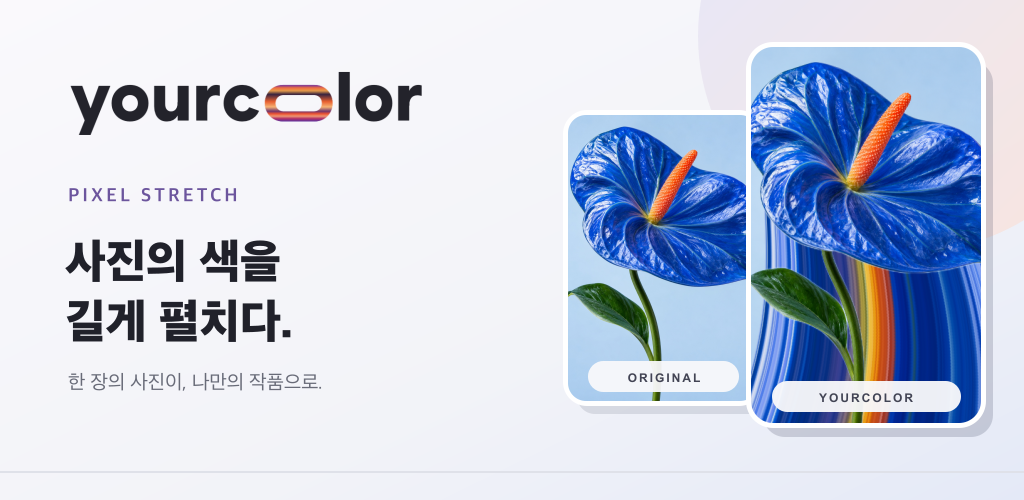
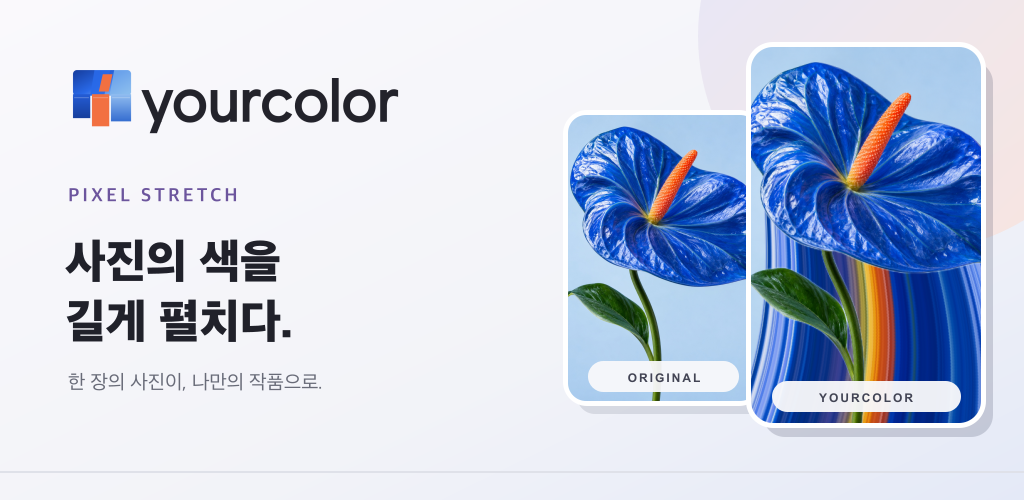
Replace oval branding with pixel stretch mark

Changed region(s): [[0.0625, 0.12, 0.4062, 0.27]]

diff --git a/docs/index.html b/docs/index.html
@@ -8,7 +8,7 @@
   <meta http-equiv="Content-Security-Policy" content="default-src 'none'; img-src 'self' data: blob:; font-src 'self'; style-src 'self' 'unsafe-inline'; script-src 'self' 'wasm-unsafe-eval'; worker-src 'self'; connect-src 'self'; base-uri 'self'; form-action 'none'">
   <title>yourcolor - 픽셀 스트레치 | 무료 사진 편집기</title>
   <link rel="canonical" href="https://ika9810.github.io/yourcolor/">
-  <link rel="icon" href="./favicon.svg" type="image/svg+xml">
+  <link rel="icon" href="./favicon.svg?v=3" type="image/svg+xml">
   <link rel="preload" href="./assets/Paperlogy-6SemiBold.woff2" as="font" type="font/woff2" crossorigin>
   <link rel="stylesheet" href="./assets/app.css">
   <meta property="og:type" content="website">
@@ -17,23 +17,23 @@
   <meta property="og:title" content="yourcolor - 픽셀 스트레치 | 사진의 색을 펼치는 편집기">
   <meta property="og:description" content="사진 한 장으로 시작해 방향·길이·모양을 직접 조절하세요. 브라우저에서 편집하고 JPG로 저장할 수 있습니다.">
   <meta property="og:url" content="https://ika9810.github.io/yourcolor/">
-  <meta property="og:image" content="https://ika9810.github.io/yourcolor/assets/og-image.png?v=2">
+  <meta property="og:image" content="https://ika9810.github.io/yourcolor/assets/og-image.png?v=3">
   <meta property="og:image:alt" content="yourcolor 픽셀 스트레치 사진 편집 앱 소개 이미지">
   <meta property="og:image:width" content="1024">
   <meta property="og:image:height" content="500">
   <meta name="twitter:card" content="summary_large_image">
-  <script type="application/ld+json">{"@context":"https://schema.org","@type":"WebApplication","name":"yourcolor - 픽셀 스트레치","alternateName":"yourcolor","url":"https://ika9810.github.io/yourcolor/","description":"사진의 실제 픽셀을 위, 아래, 왼쪽, 오른쪽으로 펼쳐 작품을 만드는 무료 웹 사진 편집기. 피사체 분리와 편집은 브라우저에서 실행됩니다.","applicationCategory":"MultimediaApplication","operatingSystem":"Web","inLanguage":"ko","isAccessibleForFree":true,"image":"https://ika9810.github.io/yourcolor/assets/og-image.png?v=2","offers":{"@type":"Offer","price":"0","priceCurrency":"KRW"}}</script>
+  <script type="application/ld+json">{"@context":"https://schema.org","@type":"WebApplication","name":"yourcolor - 픽셀 스트레치","alternateName":"yourcolor","url":"https://ika9810.github.io/yourcolor/","description":"사진의 실제 픽셀을 위, 아래, 왼쪽, 오른쪽으로 펼쳐 작품을 만드는 무료 웹 사진 편집기. 피사체 분리와 편집은 브라우저에서 실행됩니다.","applicationCategory":"MultimediaApplication","operatingSystem":"Web","inLanguage":"ko","isAccessibleForFree":true,"image":"https://ika9810.github.io/yourcolor/assets/og-image.png?v=3","offers":{"@type":"Offer","price":"0","priceCurrency":"KRW"}}</script>
 </head>
 <body>
 <a class="skip-link" href="#editor">편집기로 건너뛰기</a>
 <svg class="symbols" aria-hidden="true"><defs>
 <symbol id="arrow" viewBox="0 0 24 24"><path d="M5 12h14m-6-6 6 6-6 6"/></symbol><symbol id="back" viewBox="0 0 24 24"><path d="m14 6-6 6 6 6"/></symbol><symbol id="plus" viewBox="0 0 24 24"><path d="M12 5v14M5 12h14"/></symbol><symbol id="undo-icon" viewBox="0 0 24 24"><path d="m8 5-5 5 5 5M3 10h11a6 6 0 0 1 0 12" transform="translate(1 -2)"/></symbol><symbol id="redo-icon" viewBox="0 0 24 24"><path d="m16 5 5 5-5 5m5-5H10a6 6 0 0 0 0 12" transform="translate(-1 -2)"/></symbol><symbol id="eye" viewBox="0 0 24 24"><path d="M2 12s4-7 10-7 10 7 10 7-4 7-10 7S2 12 2 12Z"/><circle cx="12" cy="12" r="3"/></symbol><symbol id="close" viewBox="0 0 24 24"><path d="m6 6 12 12M6 18 18 6"/></symbol><symbol id="photo-icon" viewBox="0 0 24 24"><rect x="3" y="3" width="18" height="18" rx="5"/><path d="m3 16 5-5 6 6 4-4 3 3"/><circle cx="16" cy="8" r="2"/></symbol><symbol id="stretch-icon" viewBox="0 0 24 24"><path d="M12 3v18m-4-4 4 4 4-4M8 7l4-4 4 4M4 10v4m16-4v4"/></symbol><symbol id="shape-icon" viewBox="0 0 24 24"><path d="M4 19c12 0 3-14 16-14M4 14c8 0 5-11 16-11M4 21c16 0 4-13 16-13"/></symbol><symbol id="subject-icon" viewBox="0 0 24 24"><circle cx="12" cy="8" r="3"/><path d="M7 19v-3a5 5 0 0 1 10 0v3M3 7V3h4m10 0h4v4M3 17v4h4m10 0h4v-4"/></symbol><symbol id="background-icon" viewBox="0 0 24 24"><rect x="3" y="3" width="18" height="18" rx="5"/><path d="m5 19 14-14M3 12l9-9m0 18 9-9"/></symbol><symbol id="download-icon" viewBox="0 0 24 24"><path d="M12 3v12m-4-4 4 4 4-4M5 16v5h14v-5"/></symbol><symbol id="check" viewBox="0 0 24 24"><path d="m5 12 4 4L19 6"/></symbol><symbol id="lock" viewBox="0 0 24 24"><rect x="6" y="10" width="12" height="11" rx="3"/><path d="M8 10V7a4 4 0 0 1 8 0v3"/></symbol>
 </defs></svg>
-<header class="site-header"><a class="brand" href="./" aria-label="yourcolor 홈"><img src="./assets/wordmark.png" width="755" height="160" alt=""></a><nav aria-label="주요 메뉴"><a href="#how-it-works">사용법</a><a href="#faq">자주 묻는 질문</a><a href="https://github.com/ika9810/yourcolor" target="_blank" rel="noopener noreferrer">GitHub ↗</a></nav></header>
+<header class="site-header"><a class="brand" href="./" aria-label="yourcolor 홈"><img src="./assets/wordmark.png?v=3" width="945" height="190" alt=""></a><nav aria-label="주요 메뉴"><a href="#how-it-works">사용법</a><a href="#faq">자주 묻는 질문</a><a href="https://github.com/ika9810/yourcolor" target="_blank" rel="noopener noreferrer">GitHub ↗</a></nav></header>
 <div class="site-layout">
 <section class="site-hero" aria-labelledby="site-title"><p class="eyebrow product-name">yourcolor - 픽셀 스트레치</p><h1 id="site-title">너의 순간을,<br><em>조금 더 길게.</em></h1><p class="hero-description">사진 속 색을 펼쳐 만드는 나만의 픽셀 스트레치. 사진을 고르고, 피사체를 남긴 채 색의 방향과 길이를 직접 조절해 보세요.</p><div class="hero-actions"><button class="hero-cta" data-jump="pick">내 사진으로 시작하기 <span aria-hidden="true">↗</span></button><a href="https://play.google.com/store/apps/details?id=com.robotics.yourcolor" target="_blank" rel="noopener noreferrer">Google Play에서 받기 ↗</a></div><p class="hero-note">무료 · 계정 없음 · 사진은 브라우저에서 처리</p></section>
 <main class="flow-board" id="editor" data-mode="live" aria-label="yourcolor 사진 편집기">
-<article class="flow-item" data-step="home"><div class="screen-label"><span>01</span><h2>시작</h2></div><section class="screen home-screen" aria-label="시작 화면"><header class="app-header"><canvas class="logo" width="840" height="160" aria-label="yourcolor 픽셀 스트레치 로고"></canvas></header><div class="home-content"><div class="photo-stack" aria-label="픽셀 스트레치로 만든 세 가지 작품"><button class="stack-card stack-left" data-demo="flower" aria-label="꽃 작품 편집해보기"><canvas data-preview="flower" width="420" height="525"></canvas></button><button class="stack-card stack-right" data-demo="car" aria-label="자동차 작품 편집해보기"><canvas data-preview="car" width="420" height="525"></canvas></button><button class="stack-card stack-front" data-demo="portrait" aria-label="인물 작품 편집해보기"><canvas data-preview="portrait" width="420" height="525"></canvas></button></div><div class="home-copy"><h2>너의 순간을,<br>조금 더 길게.</h2><p>사진 속 색을 펼쳐 만드는<br>나만의 픽셀 스트레치.</p></div><button class="primary-button" data-jump="pick">사진으로 시작하기 <svg><use href="#arrow"/></svg></button></div></section></article>
+<article class="flow-item" data-step="home"><div class="screen-label"><span>01</span><h2>시작</h2></div><section class="screen home-screen" aria-label="시작 화면"><header class="app-header"><img class="logo" src="./assets/wordmark.png?v=3" width="945" height="190" alt="yourcolor 로고"></header><div class="home-content"><div class="photo-stack" aria-label="픽셀 스트레치로 만든 세 가지 작품"><button class="stack-card stack-left" data-demo="flower" aria-label="꽃 작품 편집해보기"><canvas data-preview="flower" width="420" height="525"></canvas></button><button class="stack-card stack-right" data-demo="car" aria-label="자동차 작품 편집해보기"><canvas data-preview="car" width="420" height="525"></canvas></button><button class="stack-card stack-front" data-demo="portrait" aria-label="인물 작품 편집해보기"><canvas data-preview="portrait" width="420" height="525"></canvas></button></div><div class="home-copy"><h2>너의 순간을,<br>조금 더 길게.</h2><p>사진 속 색을 펼쳐 만드는<br>나만의 픽셀 스트레치.</p></div><button class="primary-button" data-jump="pick">사진으로 시작하기 <svg><use href="#arrow"/></svg></button></div></section></article>
 <article class="flow-item" data-step="pick"><div class="screen-label"><span>02</span><h2>사진 선택</h2></div><section class="screen picker-screen" aria-label="사진 선택 화면"><header class="app-header"><button class="circle-button" data-jump="home" aria-label="시작 화면으로"><svg><use href="#back"/></svg></button><span class="nav-title">새로운 작품</span><span class="header-spacer"></span></header><div class="picker-content"><h2>어떤 사진으로<br>시작할까요?</h2><p class="supporting">마음에 드는 한 장이면 충분해요.</p><p id="loading-status" class="loading-status" role="status">샘플 사진을 준비하고 있어요…</p><button id="import-photo" class="import-card"><span class="import-icon"><svg><use href="#plus"/></svg></span><span><strong>내 사진 선택</strong><small>사진 보관함에서 가져오기</small></span><svg><use href="#arrow"/></svg></button><div class="sample-heading"><h3>샘플로 먼저 해보기</h3><span>3개의 사진</span></div><div id="photo-list" class="photo-list"><button data-project="car" class="sample-card sample-wide" aria-label="자동차 사진 선택"><div class="sample-art"><img id="photo-car" alt="빛이 반사되는 실버 스포츠카"></div><span>미드나잇 드라이브 <svg><use href="#arrow"/></svg></span></button><button data-project="portrait" class="sample-card" aria-label="인물 사진 선택"><div class="sample-art"><img id="photo-portrait" alt="크롬 재킷을 입은 인물"></div><span>크롬 뮤즈</span></button><button data-project="flower" class="sample-card flower-card" aria-label="꽃 사진 선택"><div class="sample-art"><img id="photo-flower" alt="코발트 블루 안스리움"></div><span>일렉트릭 블룸</span></button></div><p class="picker-note">사진을 고른 뒤, 원하는 방향으로 늘려보세요.<br>사진은 4:5로 채워져요. 가장자리가 일부 잘릴 수 있어요.<br>사진은 브라우저 안에서만 처리돼요. JPG·PNG·WebP, 최대 30MB.</p></div></section></article>
 <article class="flow-item" data-step="edit"><div class="screen-label"><span>03</span><h2>편집</h2></div><section class="screen editor-screen" aria-label="편집 화면"><header class="app-header"><button class="circle-button" data-jump="pick" aria-label="사진 선택으로"><svg><use href="#back"/></svg></button><span class="nav-title">만들기</span><button id="save-open" class="small-primary">저장</button></header><div class="art-area"><div class="stage" id="stage"><canvas id="art" width="768" height="960" aria-label="픽셀 스트레치 편집 결과"></canvas><div id="touch-surface" role="slider" tabindex="0" aria-label="사진을 위로 끌어 스트레치 길이 조절" aria-valuemin="0" aria-valuemax="100" aria-valuenow="86"><svg id="source-guide" viewBox="0 0 960 1200" aria-hidden="true"></svg></div><button id="compare" class="compare-button" aria-label="원본 비교" aria-pressed="false"><svg><use href="#eye"/></svg></button><button id="model-status" class="model-status" aria-label="피사체 상태 확인 및 보정">피사체 찾는 중…</button></div><div class="under-art"><span id="drag-hint">화살표를 당겨 늘려보세요.</span><div class="history"><button id="undo" aria-label="실행 취소" disabled><svg><use href="#undo-icon"/></svg></button><button id="redo" aria-label="다시 실행" disabled><svg><use href="#redo-icon"/></svg></button></div></div></div><div class="editor-tools"><div class="tool-panel" id="panel-stretch" role="tabpanel" aria-label="늘리기 조절"><div class="panel-heading"><strong>늘리는 방향</strong><button id="pick-color" aria-pressed="false">시작선 바꾸기</button></div><div class="direction-buttons" role="group" aria-label="늘릴 방향"><button data-direction="up" aria-pressed="true" aria-label="위로 늘리기">↑<span>위</span></button><button data-direction="down" aria-pressed="false" aria-label="아래로 늘리기">↓<span>아래</span></button><button data-direction="left" aria-pressed="false" aria-label="왼쪽으로 늘리기">←<span>왼쪽</span></button><button data-direction="right" aria-pressed="false" aria-label="오른쪽으로 늘리기">→<span>오른쪽</span></button></div><div class="range-control"><label for="length">길이 <output id="length-value">86</output></label><input id="length" type="range" min="0" max="100" value="86"></div></div><div class="tool-panel" id="panel-shape" role="tabpanel" aria-label="모양 조절" hidden><div class="panel-heading"><strong>늘어나는 모양</strong><button id="reset" aria-label="효과 초기화">초기화</button></div><div class="effect-list"><button data-effect="straight" aria-pressed="true"><canvas id="thumb-straight" width="180" height="225"></canvas><span>직선</span></button><button data-effect="fan" aria-pressed="false"><canvas id="thumb-fan" width="180" height="225"></canvas><span>펼침</span></button><button data-effect="curve" aria-pressed="false"><canvas id="thumb-curve" width="180" height="225"></canvas><span>곡선</span></button></div><div class="range-control"><label for="amount"><span id="amount-label">끝부분 펼침</span><output id="amount-value">0</output></label><input id="amount" type="range" min="0" max="100" value="0"></div></div><div class="tool-panel" id="panel-background" role="tabpanel" aria-label="바탕 선택" hidden><div class="panel-heading"><strong>작품에 어울리는 바탕</strong></div><div class="backgrounds"><button data-background="ink" aria-pressed="true"><span class="swatch ink"></span>먹색</button><button data-background="paper" aria-pressed="false"><span class="swatch paper"></span>종이색</button><button data-background="photo" aria-pressed="false"><span class="swatch photo"><svg><use href="#photo-icon"/></svg></span>원본</button></div><p class="panel-note">피사체는 그대로, 분위기는 다르게.</p></div><nav class="tool-tabs" aria-label="편집 도구"><button data-tool="stretch" aria-pressed="true"><svg><use href="#stretch-icon"/></svg><span>늘리기</span></button><button data-tool="shape" aria-pressed="false"><svg><use href="#shape-icon"/></svg><span>모양</span></button><button data-tool="subject" aria-pressed="false"><svg><use href="#subject-icon"/></svg><span>피사체</span></button><button data-tool="background" aria-pressed="false"><svg><use href="#background-icon"/></svg><span>바탕</span></button></nav></div><span id="art-label" hidden></span><span id="art-number" hidden></span></section></article>
 <article class="flow-item" data-step="export"><div class="screen-label"><span>04</span><h2>저장</h2></div><section class="screen export-screen" id="save-dialog" aria-label="저장 미리보기 화면"><header class="app-header"><button class="circle-button" data-jump="edit" aria-label="편집 화면으로"><svg><use href="#back"/></svg></button><span class="nav-title">내 작품</span><button class="circle-button" data-jump="home" aria-label="시작 화면으로"><svg><use href="#close"/></svg></button></header><div class="export-content"><div class="export-art"><canvas id="save-canvas" width="1440" height="1800" aria-label="저장할 이미지"></canvas></div><h2>이 느낌, 그대로.</h2><p class="supporting">사진에서 시작된, 당신만의 한 장.</p><div class="save-spec"><span>JPG</span><i></i><span>1440 × 1800</span><i></i><span>워터마크 없음</span></div><button id="download" class="primary-button">이미지 저장 <svg><use href="#download-icon"/></svg></button><div class="download-alternatives"><a id="download-fallback" class="text-button" hidden>직접 다운로드 ↗</a><a id="download-open" class="text-button" hidden target="_blank" rel="noopener">이미지 열어 저장 ↗</a></div><button class="text-button" data-jump="edit">조금 더 다듬기</button></div></section></article>

diff --git a/docs/src/engine.js b/docs/src/engine.js
@@ -224,28 +224,6 @@ async function decodePhoto(file){
 $('download').onclick=()=>{const project=exportProject();if(!project)return;draw($('save-canvas'),project);$('save-canvas').toBlob(blob=>{if(!blob){toast('이미지를 만들지 못했어요');return}clearDownload();downloadUrl=URL.createObjectURL(blob);const filename=`yourcolor-${project.state.effect||'original'}-${Date.now()}.jpg`;const fallback=$('download-fallback'),open=$('download-open');fallback.href=downloadUrl;fallback.download=filename;fallback.hidden=false;open.href=downloadUrl;open.hidden=false;const a=document.createElement('a');a.href=downloadUrl;a.download=filename;document.body.append(a);a.click();a.remove();toast('JPG를 준비했어요. 저장되지 않았다면 아래 링크를 사용해 주세요')},'image/jpeg',.95)};
 function toast(message){$('toast').textContent=message;$('toast').classList.add('show');clearTimeout(toast.timer);toast.timer=setTimeout(()=>$('toast').classList.remove('show'),3000)}
 document.addEventListener('keydown',e=>{if((e.metaKey||e.ctrlKey)&&e.key.toLowerCase()==='z'&&!['INPUT','SELECT'].includes(document.activeElement.tagName)){e.preventDefault();$(e.shiftKey?'redo':'undo').click()}});
-function logo(){
- // A single scan column of the colored 'o' is stretched inside the word.
- // The letter's bowl stays open; the word keeps its baseline and silhouette.
- const art=canvas(1080,180),c=art.getContext('2d');
- const font='800 142px Wanted';c.font=font;c.textBaseline='alphabetic';c.fillStyle='#23232b';
- const baseline=140,prefix='yourc',suffix='lor';c.fillText(prefix,8,baseline);
- const x=8+c.measureText(prefix).width+4;
- const glyph=canvas(100,180),g=glyph.getContext('2d');g.font=font;g.fillStyle='#fff';g.fillText('o',0,baseline);
- const colors=[[0,'#6631b5'],[.06,'#e6a0ba'],[.12,'#803994'],[.18,'#ef6d40'],[.25,'#e49b4a'],[.34,'#37243f'],[.52,'#e86030'],[.65,'#f6b273'],[.76,'#70356d'],[.82,'#ef502f'],[.88,'#ec9873'],[.94,'#b22f67'],[1,'#65339a']];
- const gradient=g.createLinearGradient(0,baseline-83,0,baseline+1);colors.forEach(([at,color])=>gradient.addColorStop(at,color));
- g.globalCompositeOperation='source-in';g.fillStyle=gradient;g.fillRect(0,0,100,180);g.globalCompositeOperation='source-over';
- const cut=Math.round(c.measureText('o').width/2),stretch=64;
- c.drawImage(glyph,0,0,cut,180,x,0,cut,180);
- c.imageSmoothingEnabled=false;c.drawImage(glyph,cut,0,1,180,x+cut,0,stretch,180);c.imageSmoothingEnabled=true;
- c.drawImage(glyph,cut,0,100-cut,180,x+cut+stretch,0,100-cut,180);
- const after=x+c.measureText('o').width+stretch+1;c.fillText(suffix,after,baseline);
- const width=after+c.measureText(suffix).width+10;
- for(const target of $$('.logo')){
-  target.width=Math.ceil(width);target.height=160;const t=target.getContext('2d');t.drawImage(art,0,-10);
- }
-}
-
 const sampleFiles={car:'midnight-coupe',portrait:'chrome-muse',flower:'electric-bloom'};
 window.addEventListener('DOMContentLoaded',()=>{
  Promise.all(Object.entries(assets).map(async([key,url])=>{
@@ -253,5 +231,5 @@ window.addEventListener('DOMContentLoaded',()=>{
   const project=prepare(key,img),mask=new Image();mask.src=`./assets/${sampleFiles[key]}-mask.png`;await mask.decode();
   project.fg.getContext('2d').drawImage(mask,0,0,W,H);project.maskReady=true;project.status='ready';
   projects[key]=project;$('photo-'+key).src=url;
- })).then(async()=>{await document.fonts.load('800 142px Wanted').catch(()=>[]);logo();sync();render();renderThumbnails();document.body.dataset.ready='true';initializeV4()}).catch(error=>{console.error(error);toast('샘플을 불러오지 못했어요. 새로고침해 주세요')});
+ })).then(()=>{sync();render();renderThumbnails();document.body.dataset.ready='true';initializeV4()}).catch(error=>{console.error(error);toast('샘플을 불러오지 못했어요. 새로고침해 주세요')});
 },{once:true});

diff --git a/android/app/src/main/java/com/robotics/yourcolor/ui/ArtworkView.kt b/android/app/src/main/java/com/robotics/yourcolor/ui/ArtworkView.kt
@@ -1,30 +1,14 @@
 package com.robotics.yourcolor.ui
 
 import android.content.Context
-import android.graphics.*
-import android.view.View
+import android.widget.ImageView
+import com.robotics.yourcolor.R
 
-/** The approved wordmark: the middle column of the multicolored 'o' is stretched. */
-class ArtworkView(context: Context) : View(context) {
-    private val art: Bitmap
+/** Displays the shared wordmark without redrawing its letters in app code. */
+class ArtworkView(context: Context) : ImageView(context) {
     init {
         contentDescription = "yourcolor"
-        val paint = Paint(Paint.ANTI_ALIAS_FLAG).apply { textSize = 142f; typeface = Typeface.createFromAsset(context.assets, "fonts/WantedSansExtraBold.ttf"); color = Color.rgb(35,35,43) }
-        val prefix = "yourc"; val suffix = "lor"; val x = 8 + paint.measureText(prefix) + 4
-        val letterWidth = paint.measureText("o"); val cut = (letterWidth / 2).toInt(); val stretch = 64
-        val after = x + letterWidth + stretch + 1
-        art = Bitmap.createBitmap((after + paint.measureText(suffix) + 10).toInt(), 160, Bitmap.Config.ARGB_8888)
-        val c = Canvas(art); c.translate(0f, -10f); c.drawText(prefix, 8f, 140f, paint)
-        val glyph = Bitmap.createBitmap(110, 180, Bitmap.Config.ARGB_8888)
-        val g = Canvas(glyph); g.drawText("o", 0f, 140f, paint)
-        val colors = intArrayOf(0xff6631b5.toInt(),0xffe6a0ba.toInt(),0xff803994.toInt(),0xffef6d40.toInt(),0xffe49b4a.toInt(),0xff37243f.toInt(),0xffe86030.toInt(),0xfff6b273.toInt(),0xff70356d.toInt(),0xffef502f.toInt(),0xffec9873.toInt(),0xffb22f67.toInt(),0xff65339a.toInt())
-        paint.shader = LinearGradient(0f,57f,0f,141f,colors,floatArrayOf(0f,.06f,.12f,.18f,.25f,.34f,.52f,.65f,.76f,.82f,.88f,.94f,1f),Shader.TileMode.CLAMP)
-        paint.xfermode = PorterDuffXfermode(PorterDuff.Mode.SRC_IN); g.drawRect(0f,0f,110f,180f,paint)
-        paint.shader = null; paint.xfermode = null
-        c.drawBitmap(glyph,Rect(0,0,cut,180),RectF(x,0f,x+cut,180f),paint)
-        c.drawBitmap(glyph,Rect(cut,0,cut+1,180),RectF(x+cut,0f,x+cut+stretch,180f),paint)
-        c.drawBitmap(glyph,Rect(cut,0,110,180),RectF(x+cut+stretch,0f,x+110+stretch,180f),paint)
-        c.drawText(suffix,after,140f,paint); glyph.recycle()
+        setImageResource(R.drawable.yourcolor_wordmark)
+        scaleType = ScaleType.FIT_START
     }
-    override fun onDraw(canvas: Canvas) { canvas.drawBitmap(art, null, RectF(0f,0f,width.toFloat(),height.toFloat()), Paint(Paint.ANTI_ALIAS_FLAG or Paint.FILTER_BITMAP_FLAG)) }
 }
